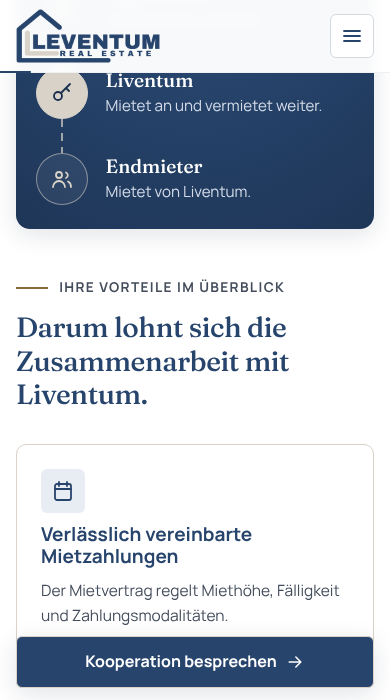
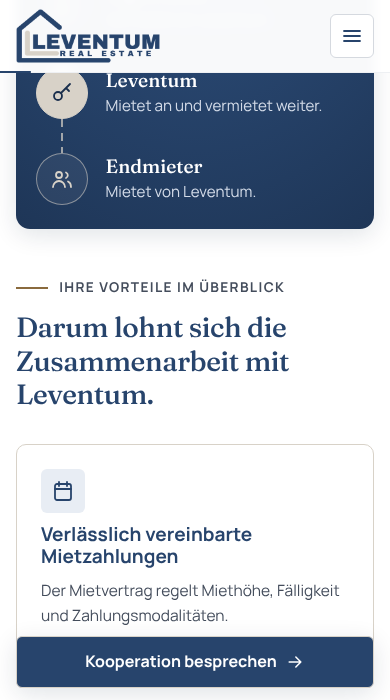
Name auf Leventum vereinheitlicht, Firmenname mit GmbH
Claude-Session: https://claude.ai/code/session_01KEcscF8ABiEHPf9rzLQ9PG

Changed region(s): [[0.0923, 0.54, 0.4, 0.6], [0.3077, 0.09, 0.4923, 0.15], [0.4923, 0.27, 0.6462, 0.3]]

diff --git a/index.html b/index.html
@@ -3,15 +3,15 @@
 <head>
   <meta charset="utf-8">
   <meta name="viewport" content="width=device-width, initial-scale=1">
-  <title>LIVENTUM REAL ESTATE – Ihr gewerblicher Mietpartner</title>
-  <meta name="description" content="LIVENTUM REAL ESTATE mietet geeignete Wohnungen und Gewerbeeinheiten von Eigentümern an, entwickelt individuelle Sondervermietungskonzepte und bringt handwerkliche sowie operative Expertise ein.">
+  <title>LEVENTUM REAL ESTATE – Ihr gewerblicher Mietpartner</title>
+  <meta name="description" content="LEVENTUM REAL ESTATE mietet geeignete Wohnungen und Gewerbeeinheiten von Eigentümern an, entwickelt individuelle Sondervermietungskonzepte und bringt handwerkliche sowie operative Expertise ein.">
   <meta name="theme-color" content="#27446c">
   <meta property="og:type" content="website">
   <meta property="og:locale" content="de_DE">
-  <meta property="og:site_name" content="LIVENTUM REAL ESTATE">
-  <meta property="og:title" content="LIVENTUM REAL ESTATE – Ihr gewerblicher Mietpartner">
+  <meta property="og:site_name" content="LEVENTUM REAL ESTATE">
+  <meta property="og:title" content="LEVENTUM REAL ESTATE – Ihr gewerblicher Mietpartner">
   <meta property="og:description" content="Leerstand vermeiden. Planbare Mieteinnahmen durch einen gewerblichen Mietpartner mit individuellen Sondervermietungskonzepten.">
-  <meta property="og:image" content="assets/img/logo-liventum.png">
+  <meta property="og:image" content="assets/img/logo-leventum.png">
   <link rel="icon" href="assets/img/favicon.svg" type="image/svg+xml">
   <link rel="preload" href="assets/fonts/fraunces-latin-wght-normal.woff2" as="font" type="font/woff2" crossorigin>
   <link rel="preload" href="assets/fonts/manrope-latin-wght-normal.woff2" as="font" type="font/woff2" crossorigin>
@@ -65,8 +65,8 @@
   <header class="site-header" id="top">
     <div class="scroll-progress" aria-hidden="true"></div>
     <div class="container header-inner">
-      <a class="brand" href="#ueberblick" aria-label="LIVENTUM REAL ESTATE – zum Seitenanfang">
-        <img src="assets/img/logo-liventum.png" width="900" height="337" alt="LIVENTUM REAL ESTATE">
+      <a class="brand" href="#ueberblick" aria-label="LEVENTUM REAL ESTATE – zum Seitenanfang">
+        <img src="assets/img/logo-leventum.png" width="900" height="337" alt="LEVENTUM REAL ESTATE">
       </a>
       <nav class="main-nav" id="main-nav" aria-label="Hauptnavigation">
         <ul>
@@ -93,7 +93,7 @@
       <div class="container hero-grid">
         <div class="hero-copy">
           <p class="eyebrow">Ihr starker Mietpartner für Immobilien</p>
-          <h1 id="hero-title"><span class="ln"><span>Leerstand vermeiden.</span></span><span class="ln accent"><span>Planbare Mieteinnahmen mit Liventum.</span></span></h1>
+          <h1 id="hero-title"><span class="ln"><span>Leerstand vermeiden.</span></span><span class="ln accent"><span>Planbare Mieteinnahmen mit Leventum.</span></span></h1>
           <ul class="hero-points">
             <li>Wir mieten Ihre Wohnungen und Gewerbeeinheiten an</li>
             <li>Individuelles Sondervermietungskonzept pro Objekt</li>
@@ -129,22 +129,22 @@
         <div class="model-panel">
           <div class="model-head">
             <p class="eyebrow">Das Modell</p>
-            <h2 id="model-title">Rent-to-Rent: Sie vermieten an Liventum. Wir vermieten weiter.</h2>
+            <h2 id="model-title">Rent-to-Rent: Sie vermieten an Leventum. Wir vermieten weiter.</h2>
           </div>
           <ol class="flow" aria-label="Ablauf im Rent-to-Rent-Modell">
             <li class="node">
               <span class="node-icon"><svg class="icon" aria-hidden="true"><use href="#i-home"/></svg></span>
-              <div><h3>Eigentümer</h3><p>Vermietet an Liventum.</p></div>
+              <div><h3>Eigentümer</h3><p>Vermietet an Leventum.</p></div>
             </li>
             <li class="link" aria-hidden="true"></li>
             <li class="node node-main">
               <span class="node-icon"><svg class="icon" aria-hidden="true"><use href="#i-key"/></svg></span>
-              <div><h3>Liventum</h3><p>Mietet an und vermietet weiter.</p></div>
+              <div><h3>Leventum</h3><p>Mietet an und vermietet weiter.</p></div>
             </li>
             <li class="link" aria-hidden="true"></li>
             <li class="node">
               <span class="node-icon"><svg class="icon" aria-hidden="true"><use href="#i-users"/></svg></span>
-              <div><h3>Endmieter</h3><p>Mietet von Liventum.</p></div>
+              <div><h3>Endmieter</h3><p>Mietet von Leventum.</p></div>
             </li>
           </ol>
         </div>
@@ -158,7 +158,7 @@
       <div class="container">
         <div class="section-head">
           <p class="eyebrow">Ihre Vorteile im Überblick</p>
-          <h2 id="benefits-title">Darum lohnt sich die Zusammenarbeit mit Liventum.</h2>
+          <h2 id="benefits-title">Darum lohnt sich die Zusammenarbeit mit Leventum.</h2>
         </div>
         <ul class="grid grid-4 benefit-grid">
           <li class="card">
@@ -169,7 +169,7 @@
           <li class="card">
             <span class="card-icon"><svg class="icon" aria-hidden="true"><use href="#i-users"/></svg></span>
             <h3>Ein zentraler Ansprechpartner</h3>
-            <p>Sie haben mit LIVENTUM einen gewerblichen Vertragspartner für die vereinbarte Zusammenarbeit.</p>
+            <p>Sie haben mit LEVENTUM einen gewerblichen Vertragspartner für die vereinbarte Zusammenarbeit.</p>
           </li>
           <li class="card">
             <span class="card-icon"><svg class="icon" aria-hidden="true"><use href="#i-file"/></svg></span>
@@ -319,7 +319,7 @@
             </div>
           </li>
           <li class="type-card">
-            <img src="assets/img/objekt-mehrfamilienhaus.jpg" width="1200" height="800" loading="lazy" alt="Gepflegtes Mehrfamilienhaus mit heller Fassade, Balkonen und beleuchtetem Erdgeschoss mit LIVENTUM-Beschriftung am Fenster">
+            <img src="assets/img/objekt-mehrfamilienhaus.jpg" width="1200" height="800" loading="lazy" alt="Gepflegtes Mehrfamilienhaus mit heller Fassade, Balkonen und beleuchtetem Erdgeschoss mit LEVENTUM-Beschriftung am Fenster">
             <div class="type-body">
               <h3>Mehrfamilienhäuser</h3>
               <p>Einheitliches Konzept, soweit für das Gebäude geeignet.</p>
@@ -386,8 +386,8 @@
         </div>
         <div class="accordion" data-accordion>
           <div class="acc-item">
-            <h3><button class="acc-trigger" type="button" aria-expanded="false" aria-controls="faq-p1" id="faq-b1">Welche Immobilien mietet Liventum an?<svg class="icon" aria-hidden="true"><use href="#i-chevron"/></svg></button></h3>
-            <div class="acc-panel" id="faq-p1" role="region" aria-labelledby="faq-b1"><div class="acc-inner"><p>LIVENTUM prüft geeignete Wohnungen, Gewerbeeinheiten und Mehrfamilienhäuser. Ob ein Objekt infrage kommt, hängt unter anderem von Lage, Zustand, Zuschnitt und zulässiger Nutzung ab und wird im Einzelfall gemeinsam geprüft.</p></div></div>
+            <h3><button class="acc-trigger" type="button" aria-expanded="false" aria-controls="faq-p1" id="faq-b1">Welche Immobilien mietet Leventum an?<svg class="icon" aria-hidden="true"><use href="#i-chevron"/></svg></button></h3>
+            <div class="acc-panel" id="faq-p1" role="region" aria-labelledby="faq-b1"><div class="acc-inner"><p>LEVENTUM prüft geeignete Wohnungen, Gewerbeeinheiten und Mehrfamilienhäuser. Ob ein Objekt infrage kommt, hängt unter anderem von Lage, Zustand, Zuschnitt und zulässiger Nutzung ab und wird im Einzelfall gemeinsam geprüft.</p></div></div>
           </div>
           <div class="acc-item">
             <h3><button class="acc-trigger" type="button" aria-expanded="false" aria-controls="faq-p2" id="faq-b2">Wie wird die Miethöhe vereinbart?<svg class="icon" aria-hidden="true"><use href="#i-chevron"/></svg></button></h3>
@@ -399,11 +399,11 @@
           </div>
           <div class="acc-item">
             <h3><button class="acc-trigger" type="button" aria-expanded="false" aria-controls="faq-p4" id="faq-b4">Wer übernimmt die Möblierung?<svg class="icon" aria-hidden="true"><use href="#i-chevron"/></svg></button></h3>
-            <div class="acc-panel" id="faq-p4" role="region" aria-labelledby="faq-b4"><div class="acc-inner"><p>Auf Wunsch organisiert LIVENTUM Ausstattung und Möblierung im vertraglich vereinbarten Umfang. Wer welche Kosten trägt und was bei Vertragsende mit der Ausstattung geschieht, wird vorab festgelegt.</p></div></div>
+            <div class="acc-panel" id="faq-p4" role="region" aria-labelledby="faq-b4"><div class="acc-inner"><p>Auf Wunsch organisiert LEVENTUM Ausstattung und Möblierung im vertraglich vereinbarten Umfang. Wer welche Kosten trägt und was bei Vertragsende mit der Ausstattung geschieht, wird vorab festgelegt.</p></div></div>
           </div>
           <div class="acc-item">
             <h3><button class="acc-trigger" type="button" aria-expanded="false" aria-controls="faq-p5" id="faq-b5">Wer ist für Instandhaltung und Reparaturen zuständig?<svg class="icon" aria-hidden="true"><use href="#i-chevron"/></svg></button></h3>
-            <div class="acc-panel" id="faq-p5" role="region" aria-labelledby="faq-b5"><div class="acc-inner"><p>Das richtet sich nach der Vereinbarung. LIVENTUM kann praktische Expertise einbringen und vereinbarte Maßnahmen ausführen oder koordinieren. Umfang, Zuständigkeit und Kostenverteilung werden vor Beginn der Zusammenarbeit individuell geregelt.</p></div></div>
+            <div class="acc-panel" id="faq-p5" role="region" aria-labelledby="faq-b5"><div class="acc-inner"><p>Das richtet sich nach der Vereinbarung. LEVENTUM kann praktische Expertise einbringen und vereinbarte Maßnahmen ausführen oder koordinieren. Umfang, Zuständigkeit und Kostenverteilung werden vor Beginn der Zusammenarbeit individuell geregelt.</p></div></div>
           </div>
           <div class="acc-item">
             <h3><button class="acc-trigger" type="button" aria-expanded="false" aria-controls="faq-p6" id="faq-b6">Wie wird die Weitervermietung vertraglich geregelt?<svg class="icon" aria-hidden="true"><use href="#i-chevron"/></svg></button></h3>
@@ -440,7 +440,7 @@
         <div class="founders-grid">
           <article class="founder">
             <figure class="founder-photo">
-              <img src="assets/img/team/james-bonitzki.jpg" width="800" height="1000" loading="lazy" alt="Porträt von James John Bonitzki, Gründer und CEO von LIVENTUM REAL ESTATE">
+              <img src="assets/img/team/james-bonitzki.jpg" width="800" height="1000" loading="lazy" alt="Porträt von James John Bonitzki, Gründer und CEO von LEVENTUM REAL ESTATE">
             </figure>
             <div class="founder-body">
               <h3>James John Bonitzki</h3>
@@ -459,7 +459,7 @@
 
           <article class="founder">
             <figure class="founder-photo">
-              <img src="assets/img/team/attila-attila.jpg" width="800" height="1000" loading="lazy" alt="Porträt von Attila Attila, Gründer und COO von LIVENTUM REAL ESTATE">
+              <img src="assets/img/team/attila-attila.jpg" width="800" height="1000" loading="lazy" alt="Porträt von Attila Attila, Gründer und COO von LEVENTUM REAL ESTATE">
             </figure>
             <div class="founder-body">
               <h3>Attila Attila</h3>
@@ -479,7 +479,7 @@
             <h3 class="vision-label">Unsere Vision</h3>
             <blockquote class="vision-quote">
               <span class="vision-mark" aria-hidden="true">&ldquo;</span>
-              <p>&bdquo;Die Liventum Real Estate Holding GmbH verwandelt Gewerbeleerstand in Wohnraum.&ldquo;</p>
+              <p>&bdquo;Die Leventum Real Estate Holding GmbH verwandelt Gewerbeleerstand in Wohnraum.&ldquo;</p>
             </blockquote>
             <ul class="values">
               <li><span class="value-icon"><svg class="icon" aria-hidden="true"><use href="#i-leaf"/></svg></span><div><strong>Effizient</strong><span>Klare Prozesse und schlanke Strukturen.</span></div></li>
@@ -497,13 +497,13 @@
         <div>
           <p class="eyebrow">Ihr nächster Schritt</p>
           <h2 id="contact-title">Lassen Sie uns gemeinsam Ihre Möglichkeiten besprechen.</h2>
-          <p class="lead">Sie verfügen über freie Wohnungen, Gewerbeeinheiten oder einen größeren Immobilienbestand? Wir prüfen gemeinsam, ob eine Zusammenarbeit mit LIVENTUM und ein passendes Sondervermietungskonzept für Ihre Immobilien sinnvoll sind.</p>
+          <p class="lead">Sie verfügen über freie Wohnungen, Gewerbeeinheiten oder einen größeren Immobilienbestand? Wir prüfen gemeinsam, ob eine Zusammenarbeit mit LEVENTUM und ein passendes Sondervermietungskonzept für Ihre Immobilien sinnvoll sind.</p>
           <div class="btn-row">
             <a class="btn btn-primary btn-lg" href="#kontaktformular" data-cta="contact-primary">Kooperation besprechen <svg class="icon" aria-hidden="true"><use href="#i-arrow"/></svg></a>
             <a class="btn btn-outline-light btn-lg" href="#kontaktdaten" data-cta="contact-secondary">Kontakt aufnehmen</a>
           </div>
           <address class="contact-card" id="kontaktdaten" tabindex="-1">
-            <strong>LIVENTUM REAL ESTATE</strong>
+            <strong>LEVENTUM REAL ESTATE GmbH</strong>
             <dl>
               <div><dt><svg class="icon" aria-hidden="true"><use href="#i-pin"/></svg>Adresse</dt><dd>Musterstraße 1, 12345 Musterstadt</dd></div>
               <div><dt><svg class="icon" aria-hidden="true"><use href="#i-phone"/></svg>Telefon</dt><dd>030-00000</dd></div>
@@ -570,8 +570,8 @@
 
   <footer class="site-footer">
     <div class="container footer-inner">
-      <a class="footer-logo" href="#top" aria-label="LIVENTUM REAL ESTATE – nach oben">
-        <img src="assets/img/logo-liventum.png" width="900" height="337" alt="LIVENTUM REAL ESTATE" loading="lazy">
+      <a class="footer-logo" href="#top" aria-label="LEVENTUM REAL ESTATE – nach oben">
+        <img src="assets/img/logo-leventum.png" width="900" height="337" alt="LEVENTUM REAL ESTATE" loading="lazy">
       </a>
       <nav class="footer-nav" aria-label="Rechtliches">
         <a href="impressum.html">Impressum</a>
@@ -583,7 +583,7 @@
         <li><a class="social-link" data-network="instagram" aria-label="Instagram"><svg class="icon" aria-hidden="true"><use href="#i-instagram"/></svg></a></li>
         <li><a class="social-link" data-network="facebook" aria-label="Facebook"><svg class="icon" aria-hidden="true"><use href="#i-facebook"/></svg></a></li>
       </ul>
-      <p class="footer-copy">© <span id="year">2026</span> LIVENTUM REAL ESTATE</p>
+      <p class="footer-copy">© <span id="year">2026</span> LEVENTUM REAL ESTATE GmbH</p>
     </div>
   </footer>
 

diff --git a/impressum.html b/impressum.html
@@ -4,7 +4,7 @@
   <meta charset="utf-8">
   <meta name="viewport" content="width=device-width, initial-scale=1">
   <meta name="robots" content="noindex">
-  <title>Impressum – LIVENTUM REAL ESTATE</title>
+  <title>Impressum – LEVENTUM REAL ESTATE</title>
   <link rel="icon" href="assets/img/favicon.svg" type="image/svg+xml">
   <link rel="preload" href="assets/fonts/fraunces-latin-wght-normal.woff2" as="font" type="font/woff2" crossorigin>
   <link rel="preload" href="assets/fonts/manrope-latin-wght-normal.woff2" as="font" type="font/woff2" crossorigin>
@@ -15,13 +15,13 @@
 </head>
 <body>
   <header class="site-header"><div class="container header-inner">
-    <a class="brand" href="index.html" aria-label="LIVENTUM REAL ESTATE – zur Startseite"><img src="assets/img/logo-liventum.png" width="900" height="337" alt="LIVENTUM REAL ESTATE"></a>
+    <a class="brand" href="index.html" aria-label="LEVENTUM REAL ESTATE – zur Startseite"><img src="assets/img/logo-leventum.png" width="900" height="337" alt="LEVENTUM REAL ESTATE"></a>
     <a class="btn btn-outline" href="index.html">Zur Startseite</a>
   </div></header>
   <main class="container legal-page">
     <h1>Impressum</h1>
     <p class="placeholder-flag">Platzhalter – rechtlich verbindliche Angaben müssen vor Veröffentlichung ergänzt und geprüft werden.</p>
-    <p><strong>LIVENTUM REAL ESTATE</strong></p><p>Anschrift: [wird ergänzt]<br>Vertretungsberechtigte Person: [wird ergänzt]<br>Handelsregister / Registernummer: [wird ergänzt]<br>Umsatzsteuer-ID: [wird ergänzt]<br>Telefon: [wird ergänzt]<br>E-Mail: [wird ergänzt]</p>
+    <p><strong>LEVENTUM REAL ESTATE GmbH</strong></p><p>Anschrift: [wird ergänzt]<br>Vertretungsberechtigte Person: [wird ergänzt]<br>Handelsregister / Registernummer: [wird ergänzt]<br>Umsatzsteuer-ID: [wird ergänzt]<br>Telefon: [wird ergänzt]<br>E-Mail: [wird ergänzt]</p>
   </main>
 </body>
 </html>

diff --git a/datenschutz.html b/datenschutz.html
@@ -4,7 +4,7 @@
   <meta charset="utf-8">
   <meta name="viewport" content="width=device-width, initial-scale=1">
   <meta name="robots" content="noindex">
-  <title>Datenschutzhinweise – LIVENTUM REAL ESTATE</title>
+  <title>Datenschutzhinweise – LEVENTUM REAL ESTATE</title>
   <link rel="icon" href="assets/img/favicon.svg" type="image/svg+xml">
   <link rel="preload" href="assets/fonts/fraunces-latin-wght-normal.woff2" as="font" type="font/woff2" crossorigin>
   <link rel="preload" href="assets/fonts/manrope-latin-wght-normal.woff2" as="font" type="font/woff2" crossorigin>
@@ -15,7 +15,7 @@
 </head>
 <body>
   <header class="site-header"><div class="container header-inner">
-    <a class="brand" href="index.html" aria-label="LIVENTUM REAL ESTATE – zur Startseite"><img src="assets/img/logo-liventum.png" width="900" height="337" alt="LIVENTUM REAL ESTATE"></a>
+    <a class="brand" href="index.html" aria-label="LEVENTUM REAL ESTATE – zur Startseite"><img src="assets/img/logo-leventum.png" width="900" height="337" alt="LEVENTUM REAL ESTATE"></a>
     <a class="btn btn-outline" href="index.html">Zur Startseite</a>
   </div></header>
   <main class="container legal-page">

diff --git a/README.md b/README.md
@@ -1,4 +1,4 @@
-# LIVENTUM REAL ESTATE – Akquisitionswebsite
+# LEVENTUM REAL ESTATE – Akquisitionswebsite
 
 Statische Website (HTML/CSS/JS, **keine Abhängigkeiten, kein Build-Schritt**). Zielgruppe: Eigentümer, Bauunternehmer, Bestandshalter.
 
@@ -34,7 +34,7 @@ Die Icons im Footer (`.social-link`) haben bewusst noch keinen Link. Zum Aktivie
 Ohne Backend läuft das Formular im **Demo-Modus** und versendet nichts (klar gekennzeichnet). Versand aktivieren: `data-endpoint="https://…"` am `<form id="contact-form">` setzen. Das Formular sendet JSON per POST (z. B. Formspree oder eigenes Backend); Erfolg wird nur bei HTTP 2xx gemeldet. Datenschutzerklärung entsprechend ergänzen.
 
 ## Vor Veröffentlichung bestätigen
-- Schreibweise der Marke: Logo zeigt „LEVENTUM“, Texte verwenden „LIVENTUM“
+- Schreibweise der Marke: Logo zeigt „LEVENTUM“, Texte verwenden „LEVENTUM“
 - Aussagen zu handwerklicher Erfahrung (keine Qualifikationen behauptet), Start mit einer Wohnung, Sicherheiten (Kaution/Bürgschaft) und Weitervermietung durch Rechtsberatung prüfen lassen
 
 ## Gestaltungsrichtlinien (10K-Checklist)
